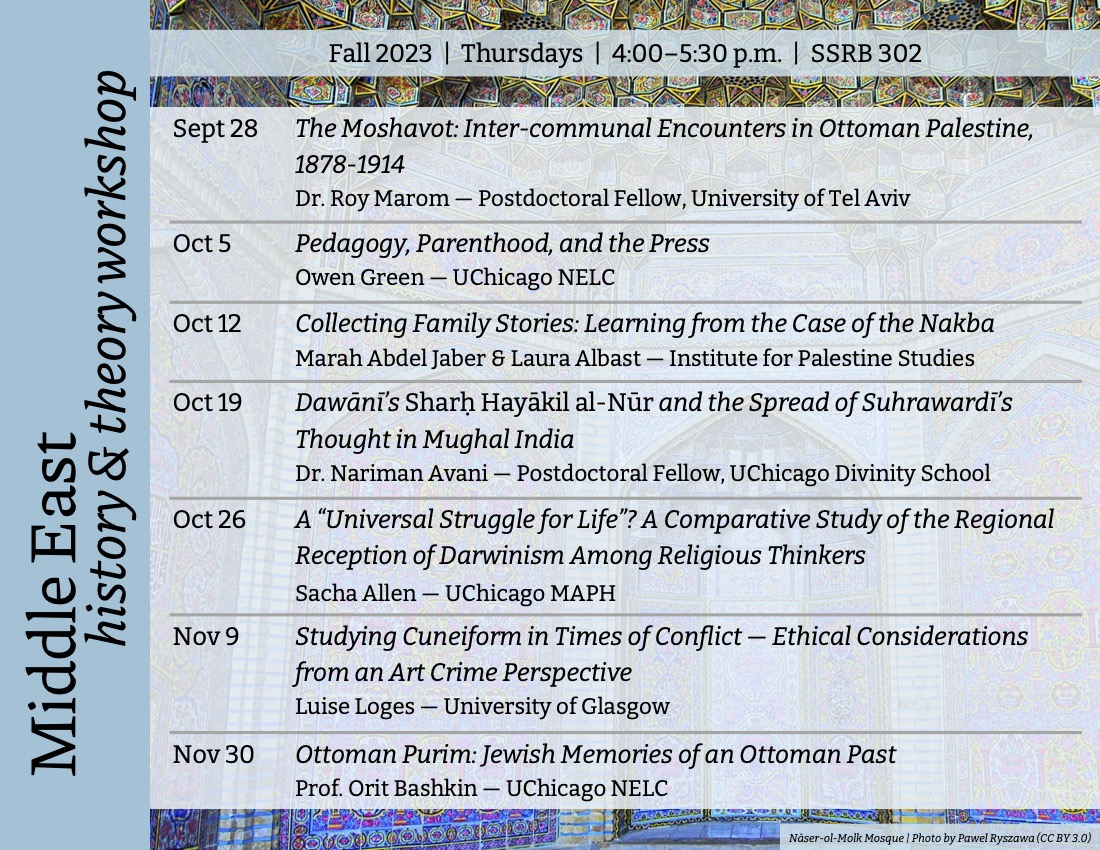
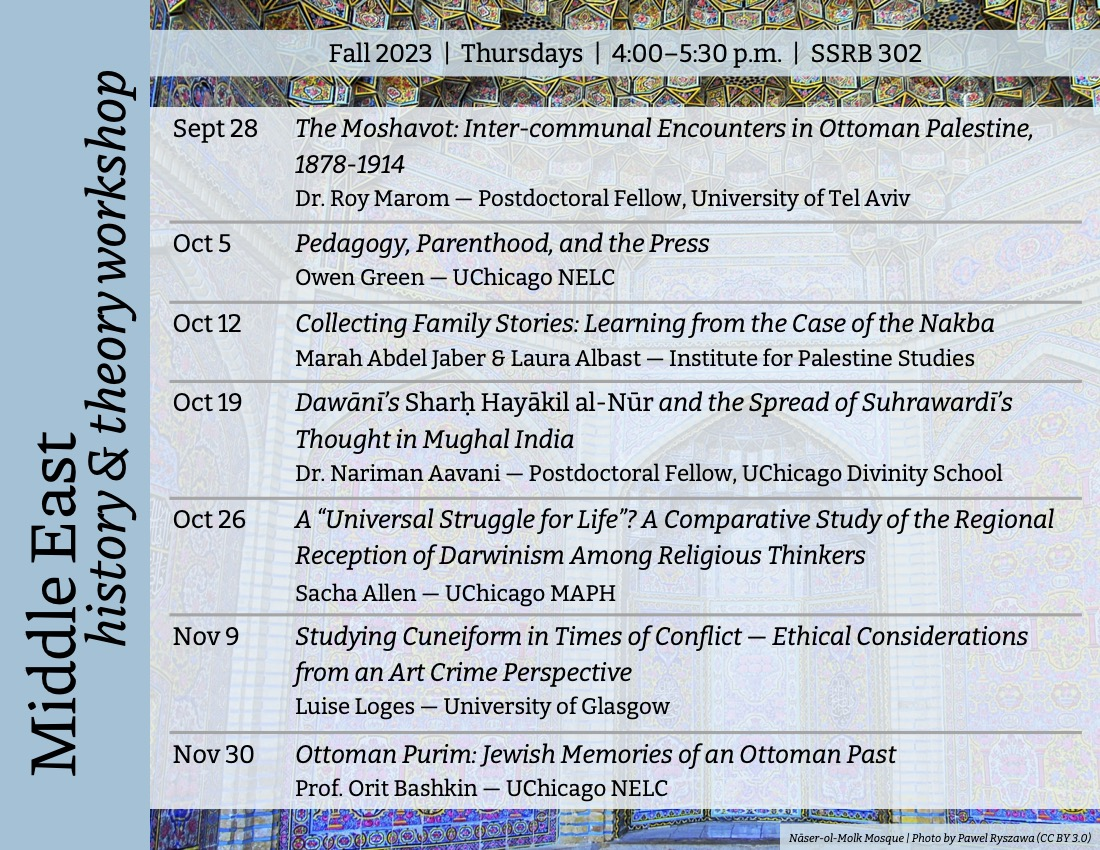
spell

Changed region(s): [[0.4018, 0.5506, 0.9273, 0.5812]]

diff --git a/_site/MEHAT/2023/09/25/mehat-schedule-fall-2023.html b/_site/MEHAT/2023/09/25/mehat-schedule-fall-2023.html
@@ -284,8 +284,8 @@
 <meta name="generator" content="Jekyll v4.3.2" />
 <meta property="og:title" content="MEHAT Schedule — Fall Term 2023" />
 <meta property="og:locale" content="en_US" />
-<meta name="description" content="We are pleased to announce the tentative schedule for the Fall 2023 meetings of the MEHAT Workshop! Please note presentations will take place at 4PM on Thursdays throughout the term in SSRB 302. Fall 2023: Sept 28 – The Moshavot: Inter-communal Encounters in Ottoman Palestine, 1878-1914 w/ Dr. Roy Maron (Postdoctoral Fellow, University of Tel Aviv) Oct 5 — Pedagogy, Parenthood, and the Press w/ Owen Green (UChicago NELC) Oct 12 — Collecting Family Stories: Learning from the Case of the Nakba w/ Marah Abdel Jaber &amp; Laura Albast (Institute for Palestine Studies) Oct 19 — Dawānī’s Sharḥ Hayākil al-Nūr and the Spread of Suhrawardī’s Thought in Mughal India w/ Dr. Nariman Avani (Postdoctoral Fellow, UChicago Divinity School) Oct 26 — A “Universal Struggle for Life”? A Comparative Study of the Regional Reception of Darwinism Among Religious Thinkers w/ Sacha Allen (UChicago MAPH) Nov 9 — Studying Cuneiform in Times of Conflict — Ethical Considerations from an Art Crime Perspective w/ Luise Loges (University of Glasgow) Nov 30 — Ottoman Purim: Jewish Memories of an Ottoman Past w/ Prof. Orit Bashkin (UChicago NELC)" />
-<meta property="og:description" content="We are pleased to announce the tentative schedule for the Fall 2023 meetings of the MEHAT Workshop! Please note presentations will take place at 4PM on Thursdays throughout the term in SSRB 302. Fall 2023: Sept 28 – The Moshavot: Inter-communal Encounters in Ottoman Palestine, 1878-1914 w/ Dr. Roy Maron (Postdoctoral Fellow, University of Tel Aviv) Oct 5 — Pedagogy, Parenthood, and the Press w/ Owen Green (UChicago NELC) Oct 12 — Collecting Family Stories: Learning from the Case of the Nakba w/ Marah Abdel Jaber &amp; Laura Albast (Institute for Palestine Studies) Oct 19 — Dawānī’s Sharḥ Hayākil al-Nūr and the Spread of Suhrawardī’s Thought in Mughal India w/ Dr. Nariman Avani (Postdoctoral Fellow, UChicago Divinity School) Oct 26 — A “Universal Struggle for Life”? A Comparative Study of the Regional Reception of Darwinism Among Religious Thinkers w/ Sacha Allen (UChicago MAPH) Nov 9 — Studying Cuneiform in Times of Conflict — Ethical Considerations from an Art Crime Perspective w/ Luise Loges (University of Glasgow) Nov 30 — Ottoman Purim: Jewish Memories of an Ottoman Past w/ Prof. Orit Bashkin (UChicago NELC)" />
+<meta name="description" content="We are pleased to announce the tentative schedule for the Fall 2023 meetings of the MEHAT Workshop! Please note presentations will take place at 4PM on Thursdays throughout the term in SSRB 302. Fall 2023: Sept 28 – The Moshavot: Inter-communal Encounters in Ottoman Palestine, 1878-1914 w/ Dr. Roy Maron (Postdoctoral Fellow, University of Tel Aviv) Oct 5 — Pedagogy, Parenthood, and the Press w/ Owen Green (UChicago NELC) Oct 12 — Collecting Family Stories: Learning from the Case of the Nakba w/ Marah Abdel Jaber &amp; Laura Albast (Institute for Palestine Studies) Oct 19 — Dawānī’s Sharḥ Hayākil al-Nūr and the Spread of Suhrawardī’s Thought in Mughal India w/ Dr. Nariman Aavani (Postdoctoral Fellow, UChicago Divinity School) Oct 26 — A “Universal Struggle for Life”? A Comparative Study of the Regional Reception of Darwinism Among Religious Thinkers w/ Sacha Allen (UChicago MAPH) Nov 9 — Studying Cuneiform in Times of Conflict — Ethical Considerations from an Art Crime Perspective w/ Luise Loges (University of Glasgow) Nov 30 — Ottoman Purim: Jewish Memories of an Ottoman Past w/ Prof. Orit Bashkin (UChicago NELC)" />
+<meta property="og:description" content="We are pleased to announce the tentative schedule for the Fall 2023 meetings of the MEHAT Workshop! Please note presentations will take place at 4PM on Thursdays throughout the term in SSRB 302. Fall 2023: Sept 28 – The Moshavot: Inter-communal Encounters in Ottoman Palestine, 1878-1914 w/ Dr. Roy Maron (Postdoctoral Fellow, University of Tel Aviv) Oct 5 — Pedagogy, Parenthood, and the Press w/ Owen Green (UChicago NELC) Oct 12 — Collecting Family Stories: Learning from the Case of the Nakba w/ Marah Abdel Jaber &amp; Laura Albast (Institute for Palestine Studies) Oct 19 — Dawānī’s Sharḥ Hayākil al-Nūr and the Spread of Suhrawardī’s Thought in Mughal India w/ Dr. Nariman Aavani (Postdoctoral Fellow, UChicago Divinity School) Oct 26 — A “Universal Struggle for Life”? A Comparative Study of the Regional Reception of Darwinism Among Religious Thinkers w/ Sacha Allen (UChicago MAPH) Nov 9 — Studying Cuneiform in Times of Conflict — Ethical Considerations from an Art Crime Perspective w/ Luise Loges (University of Glasgow) Nov 30 — Ottoman Purim: Jewish Memories of an Ottoman Past w/ Prof. Orit Bashkin (UChicago NELC)" />
 <link rel="canonical" href="http://localhost:4000/MEHAT/2023/09/25/mehat-schedule-fall-2023.html" />
 <meta property="og:url" content="http://localhost:4000/MEHAT/2023/09/25/mehat-schedule-fall-2023.html" />
 <meta property="og:site_name" content="Theo Knights" />
@@ -294,7 +294,7 @@
 <meta name="twitter:card" content="summary" />
 <meta property="twitter:title" content="MEHAT Schedule — Fall Term 2023" />
 <script type="application/ld+json">
-{"@context":"https://schema.org","@type":"BlogPosting","dateModified":"2023-09-25T16:10:23-05:00","datePublished":"2023-09-25T16:10:23-05:00","description":"We are pleased to announce the tentative schedule for the Fall 2023 meetings of the MEHAT Workshop! Please note presentations will take place at 4PM on Thursdays throughout the term in SSRB 302. Fall 2023: Sept 28 – The Moshavot: Inter-communal Encounters in Ottoman Palestine, 1878-1914 w/ Dr. Roy Maron (Postdoctoral Fellow, University of Tel Aviv) Oct 5 — Pedagogy, Parenthood, and the Press w/ Owen Green (UChicago NELC) Oct 12 — Collecting Family Stories: Learning from the Case of the Nakba w/ Marah Abdel Jaber &amp; Laura Albast (Institute for Palestine Studies) Oct 19 — Dawānī’s Sharḥ Hayākil al-Nūr and the Spread of Suhrawardī’s Thought in Mughal India w/ Dr. Nariman Avani (Postdoctoral Fellow, UChicago Divinity School) Oct 26 — A “Universal Struggle for Life”? A Comparative Study of the Regional Reception of Darwinism Among Religious Thinkers w/ Sacha Allen (UChicago MAPH) Nov 9 — Studying Cuneiform in Times of Conflict — Ethical Considerations from an Art Crime Perspective w/ Luise Loges (University of Glasgow) Nov 30 — Ottoman Purim: Jewish Memories of an Ottoman Past w/ Prof. Orit Bashkin (UChicago NELC)","headline":"MEHAT Schedule — Fall Term 2023","mainEntityOfPage":{"@type":"WebPage","@id":"http://localhost:4000/MEHAT/2023/09/25/mehat-schedule-fall-2023.html"},"url":"http://localhost:4000/MEHAT/2023/09/25/mehat-schedule-fall-2023.html"}</script>
+{"@context":"https://schema.org","@type":"BlogPosting","dateModified":"2023-09-25T16:10:23-05:00","datePublished":"2023-09-25T16:10:23-05:00","description":"We are pleased to announce the tentative schedule for the Fall 2023 meetings of the MEHAT Workshop! Please note presentations will take place at 4PM on Thursdays throughout the term in SSRB 302. Fall 2023: Sept 28 – The Moshavot: Inter-communal Encounters in Ottoman Palestine, 1878-1914 w/ Dr. Roy Maron (Postdoctoral Fellow, University of Tel Aviv) Oct 5 — Pedagogy, Parenthood, and the Press w/ Owen Green (UChicago NELC) Oct 12 — Collecting Family Stories: Learning from the Case of the Nakba w/ Marah Abdel Jaber &amp; Laura Albast (Institute for Palestine Studies) Oct 19 — Dawānī’s Sharḥ Hayākil al-Nūr and the Spread of Suhrawardī’s Thought in Mughal India w/ Dr. Nariman Aavani (Postdoctoral Fellow, UChicago Divinity School) Oct 26 — A “Universal Struggle for Life”? A Comparative Study of the Regional Reception of Darwinism Among Religious Thinkers w/ Sacha Allen (UChicago MAPH) Nov 9 — Studying Cuneiform in Times of Conflict — Ethical Considerations from an Art Crime Perspective w/ Luise Loges (University of Glasgow) Nov 30 — Ottoman Purim: Jewish Memories of an Ottoman Past w/ Prof. Orit Bashkin (UChicago NELC)","headline":"MEHAT Schedule — Fall Term 2023","mainEntityOfPage":{"@type":"WebPage","@id":"http://localhost:4000/MEHAT/2023/09/25/mehat-schedule-fall-2023.html"},"url":"http://localhost:4000/MEHAT/2023/09/25/mehat-schedule-fall-2023.html"}</script>
 <!-- End Jekyll SEO tag -->
 
 
@@ -476,7 +476,7 @@
   <li>Sept 28 – <i>The Moshavot: Inter-communal Encounters in Ottoman Palestine, 1878-1914</i> w/ Dr. Roy Maron (Postdoctoral Fellow, University of Tel Aviv)</li>
   <li>Oct 5 — <i>Pedagogy, Parenthood, and the Press</i> w/ Owen Green (UChicago NELC)</li>
   <li>Oct 12 — <i>Collecting Family Stories: Learning from the Case of the Nakba</i> w/ Marah Abdel Jaber &amp; Laura Albast (Institute for Palestine Studies)</li>
-  <li>Oct 19 — <i>Dawānī’s</i> Sharḥ Hayākil al-Nūr <i>and the Spread of Suhrawardī’s Thought in Mughal India</i> w/ Dr. Nariman Avani (Postdoctoral Fellow, UChicago Divinity School)</li>
+  <li>Oct 19 — <i>Dawānī’s</i> Sharḥ Hayākil al-Nūr <i>and the Spread of Suhrawardī’s Thought in Mughal India</i> w/ Dr. Nariman Aavani (Postdoctoral Fellow, UChicago Divinity School)</li>
   <li>Oct 26 — <i>A “Universal Struggle for Life”? A Comparative Study of the Regional Reception of Darwinism Among Religious Thinkers</i> w/ Sacha Allen (UChicago MAPH)</li>
   <li>Nov 9 — <i>Studying Cuneiform in Times of Conflict — Ethical Considerations from an Art Crime Perspective</i> w/ Luise Loges (University of Glasgow)</li>
   <li>Nov 30 — <i>Ottoman Purim: Jewish Memories of an Ottoman Past</i> w/ Prof. Orit Bashkin (UChicago NELC)</li>

diff --git a/_posts/2023-09-25-mehat-schedule-fall-2023.md b/_posts/2023-09-25-mehat-schedule-fall-2023.md
@@ -25,7 +25,7 @@ We are pleased to announce the tentative schedule for the Fall 2023 meetings of 
   <li>Sept 28 – <i>The Moshavot: Inter-communal Encounters in Ottoman Palestine, 1878-1914</i> w/ Dr. Roy Maron (Postdoctoral Fellow, University of Tel Aviv)</li>
   <li>Oct 5 — <i>Pedagogy, Parenthood, and the Press</i> w/ Owen Green (UChicago NELC)</li>
   <li>Oct 12 — <i>Collecting Family Stories: Learning from the Case of the Nakba</i> w/ Marah Abdel Jaber & Laura Albast (Institute for Palestine Studies)</li>
-  <li>Oct 19 — <i>Dawānī’s</i> Sharḥ Hayākil al-Nūr <i>and the Spread of Suhrawardī’s Thought in Mughal India</i> w/ Dr. Nariman Avani (Postdoctoral Fellow, UChicago Divinity School)</li>
+  <li>Oct 19 — <i>Dawānī’s</i> Sharḥ Hayākil al-Nūr <i>and the Spread of Suhrawardī’s Thought in Mughal India</i> w/ Dr. Nariman Aavani (Postdoctoral Fellow, UChicago Divinity School)</li>
   <li>Oct 26 — <i>A “Universal Struggle for Life”? A Comparative Study of the Regional Reception of Darwinism Among Religious Thinkers</i> w/ Sacha Allen (UChicago MAPH)</li>
   <li>Nov 9 — <i>Studying Cuneiform in Times of Conflict — Ethical Considerations from an Art Crime Perspective</i> w/ Luise Loges (University of Glasgow)</li>
   <li>Nov 30 — <i>Ottoman Purim: Jewish Memories of an Ottoman Past</i> w/ Prof. Orit Bashkin (UChicago NELC)</li>
